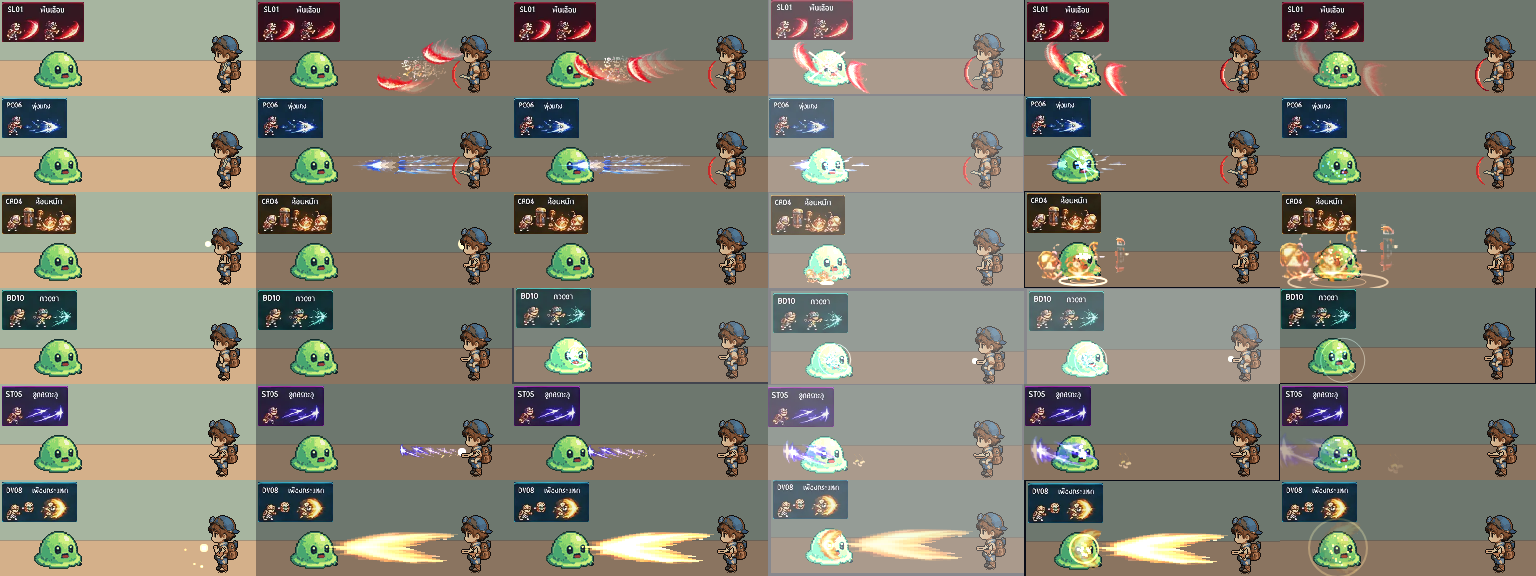
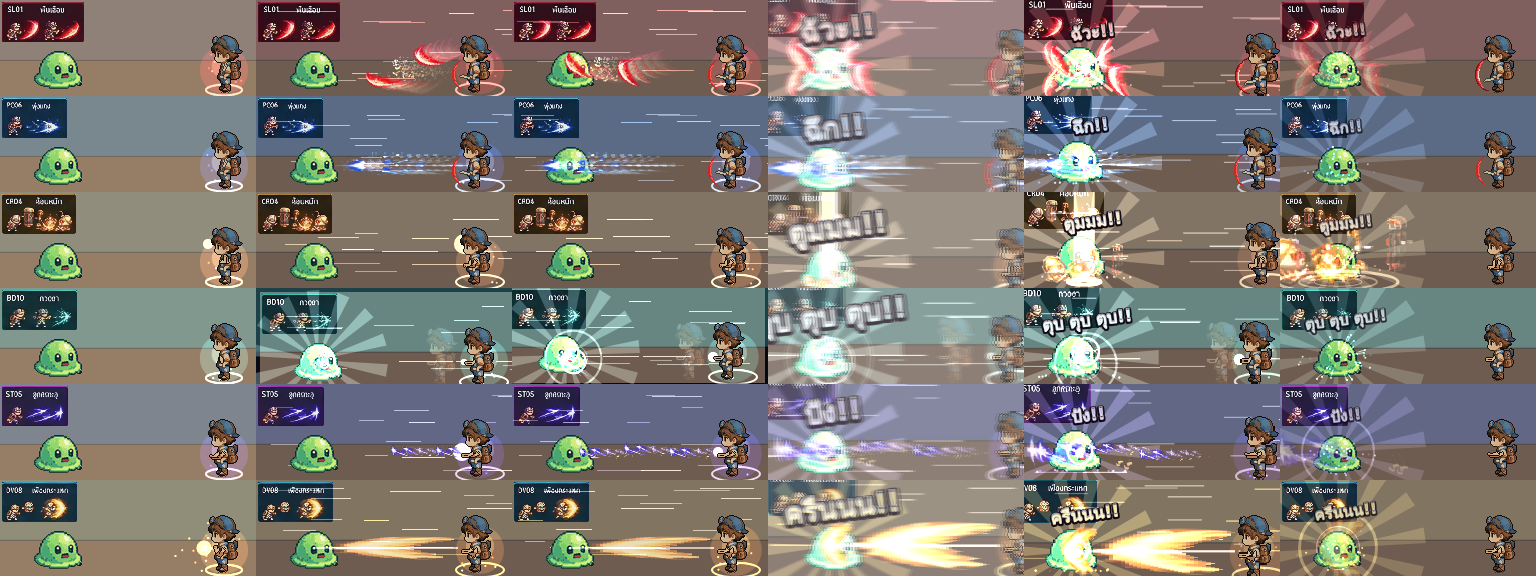
REBORNER: bigger sheet-skill VFX (hit-stop, zoom, rays, SFX text) + synthesized sound
36-frame timeline with charge aura, speed lines, 2-frame hit-stop, impact zoom,
rotating rays, offset ghosting, floating embers and onomatopoeia per school.
Web Audio sound effects synthesized in-page (no audio files), toggled by a button.

Claude-Session: https://claude.ai/code/session_01GQscemcyhAULQ41Vq3Zx3F

diff --git a/reborner/tools/web/anim_test.tpl.html b/reborner/tools/web/anim_test.tpl.html
@@ -177,6 +177,7 @@ footer code{font-family:ui-monospace,Menlo,monospace;font-size:11px}
 		<section class="box" id="paneSksheet" hidden>
 			<p class="muted wnote">ตัดจากชีตสกิลของ kwan ทีละช่อง (มีจริง 172 ช่อง แม้หัวชีตเขียน 173) · ตัวเอกในชีตถูกลบออก ใช้ Rion ตัวจริงของเกมแทน · หันซ้ายแบบจอสู้ ·
 				ยืน → ง้าง → ปล่อย → กระทบ → คืนท่า · มุมซ้ายบน = ช่องต้นฉบับ · ร่าง ยังไม่เข้าเกม · ชื่อท่ายังไม่ได้ใส่ (ในชีตเป็นภาพตัวหนังสือ)</p>
+			<p><button class="btn" id="btnSound" aria-pressed="false">🔇 เสียงปิด — กดเพื่อเปิดเสียงประกอบ (ตัวอย่าง VFX)</button></p>
 			<div class="clips" id="skGroups"></div>
 		</section>
 
@@ -334,9 +335,10 @@ if (DATA.sprites['smp/slime_v3']) {
 }
 
 // อาวุธจากชีต "Weapon Collection 210" ของ kwan (ตัดทีละช่องด้วย tools/sprites/weapons_sheet_cut.py) — เล่นคู่ ขนาดชีต | 32px
-const VFX = { N: 24, SEC: 0.05, REL: 6, HIT: 10,
-	POSE: [0, 0, 1, 1, 1, 1, 2, 2, 2, 2, 3, 3, 3, 3, 3, 3, 4, 4, 4, 4, 4, 4, 0, 0],
-	SHAKE: { SL: 2, PC: 2, CR: 5, BD: 3, ST: 2, DV: 4 }, GRAV: { CR: 0.45 }, TARGET: { x: 58, foot: 90, key: 'mon/M01' } };
+const VFX = { N: 36, SEC: 0.045, CHG: 1, REL: 8, HIT: 14, STOP: 2,   // ชาร์จ 1–7 · ปล่อย 8–13 · กระทบ 14 (หยุดภาพ 2 เฟรม) · ผลหลังกระทบ ถึง ~29 · คืนท่า
+	POSE: [0, 0, 1, 1, 1, 1, 1, 1, 2, 2, 2, 2, 2, 2, 3, 3, 3, 3, 3, 3, 3, 3, 3, 3, 4, 4, 4, 4, 4, 4, 4, 4, 0, 0, 0, 0],
+	SHAKE: { SL: 3, PC: 3, CR: 7, BD: 4, ST: 3, DV: 6 }, GRAV: { CR: 0.45 }, TARGET: { x: 58, foot: 90, key: 'mon/M01' },
+	TEXT: { SL: 'ฉัวะ!!', PC: 'ฉึก!!', CR: 'ตูมมม!!', BD: 'ตุบ ตุบ ตุบ!!', ST: 'ปัง!!', DV: 'ครืนนน!!' } };   // ตัวหนังสือเสียงชุดเดียวกับไม้ตาย (ultimates.json sfx_text)
 const VFX_POSE_KEYS = it => VFX.POSE.map(p => 'rion/' + SKS.poses[it.family][p]);
 // สกิลจากชีต 173 ท่า (tools/sprites/skill_sheet_cut.py) — timeline/poses/ตำแหน่งมาจาก index.json ชุดเดียวกับสคริปต์
 const SKS = DATA.skill_sheet, SK_FAM = { SL: 'SL ฟัน', PC: 'PC แทง', CR: 'CR ทุบ', BD: 'BD ร่างกาย', ST: 'ST ยิง', DV: 'DV สายกล' };
@@ -350,91 +352,169 @@ for (const code of ((SKS || {}).vfx_samples || [])) {   // ตัวอย่า
 	addClip('ตัวอย่าง VFX · สายละ 1 ท่า (รอ kwan ดูก่อนทาทั้ง 172)', 'vfx_' + code, code + ' · VFX', VFX_POSE_KEYS(it), VFX.SEC, { tab: 'sksheet', skill: it, vfx: true });
 }
 { const i = GROUPS.findIndex(g => g.name.startsWith('ตัวอย่าง VFX')); if (i > 0) GROUPS.unshift(...GROUPS.splice(i, 1)); }
-// ── VFX ซ้อนบนภาพชีต (kwan เลือก 5 ต.ค. · ตัวอย่างสายละ 1 ท่า = SKS.vfx_samples) ──
-// เฟรมละ VFX.SEC · ง้าง 0–5 · ปล่อย 6–9 · กระทบ VFX.HIT · ค้าง/จาง ถึง 21 · ทุกอย่างคิดจากเลขเฟรม (สุ่มแบบมี seed ตามรหัสท่า) → กดทีละเฟรมได้ ภาพเดิมทุกครั้ง
-// ค่าทั้งหมดเป็นค่าภาพในหน้าเทส ไม่ใช่ค่าเกม
+// ── VFX ซ้อนบนภาพชีต (kwan เลือก 5 ต.ค. · "อลังการกว่านี้พร้อมเสียง" · ตัวอย่างสายละ 1 ท่า = SKS.vfx_samples) ──
+// ทุกอย่างคิดจากเลขเฟรม (สุ่มแบบมี seed ตามรหัสท่า) → กดทีละเฟรมได้ ภาพเดิมทุกครั้ง · ค่าทั้งหมดเป็นค่าภาพ/เสียงในหน้าเทส ไม่ใช่ค่าเกม
 const vHash = str => { let h = 2166136261; for (const ch of str) h = Math.imul(h ^ ch.charCodeAt(0), 16777619); return h >>> 0; };
 const vRng = seed => { let s = (seed >>> 0) || 1; return () => (s = (Math.imul(s, 1664525) + 1013904223) >>> 0) / 4294967296; };
 const lerp = (a, b, t) => a + (b - a) * Math.max(0, Math.min(1, t));
+const vTime = f => f < VFX.HIT ? f : f < VFX.HIT + VFX.STOP ? VFX.HIT : f - VFX.STOP;   // หยุดภาพตอนกระทบ: เวลาของการเคลื่อนไหวค้างไว้ STOP เฟรม
 function vfxImg(img, x, y, sx, sy, a, alpha, add) {   // วางภาพเอฟเฟกต์กลาง (x, y) · add = บวกแสง
 	if (!img || alpha <= 0) return;
 	ctx.save(); if (add) ctx.globalCompositeOperation = 'lighter'; ctx.globalAlpha = Math.min(1, alpha);
 	ctx.translate(Math.round(x), Math.round(y)); ctx.rotate(a); ctx.scale(sx, sy); ctx.drawImage(img, -img.width / 2, -img.height / 2); ctx.restore();
 }
 function vfxDot(x, y, r, col, alpha) { ctx.save(); ctx.globalCompositeOperation = 'lighter'; ctx.globalAlpha = Math.max(0, Math.min(1, alpha)); ctx.fillStyle = col; ctx.beginPath(); ctx.arc(x, y, Math.max(0.5, r), 0, 7); ctx.fill(); ctx.restore(); }
-function vfxRing(x, y, rx, ry, col, alpha, w) { ctx.save(); ctx.globalCompositeOperation = 'lighter'; ctx.globalAlpha = Math.max(0, alpha); ctx.strokeStyle = col; ctx.lineWidth = w; ctx.beginPath(); ctx.ellipse(x, y, rx, Math.max(1, ry), 0, 0, 7); ctx.stroke(); ctx.restore(); }
-function vfxBurst(code, t0, f, x, y, n, col, opt = {}) {   // อนุภาคกระจายจาก (x, y) เมื่อเฟรม t0 · คิดตำแหน่งจากเวลา ไม่สะสม
-	const dt = f - t0; if (dt < 0 || dt > (opt.life || 9)) return;
-	const r = vRng(vHash(code) + t0 * 977), g = opt.grav ?? 0.18, life = opt.life || 9;
+function vfxRing(x, y, rx, ry, col, alpha, w) { if (alpha <= 0) return; ctx.save(); ctx.globalCompositeOperation = 'lighter'; ctx.globalAlpha = Math.min(1, alpha); ctx.strokeStyle = col; ctx.lineWidth = w; ctx.beginPath(); ctx.ellipse(x, y, rx, Math.max(1, ry), 0, 0, 7); ctx.stroke(); ctx.restore(); }
+function vfxRays(x, y, n, len, rot, col, alpha) {   // รัศมีแสงหมุนหลังเป้า
+	if (alpha <= 0) return; ctx.save(); ctx.globalCompositeOperation = 'lighter'; ctx.globalAlpha = Math.min(1, alpha); ctx.fillStyle = col;
+	for (let i = 0; i < n; i++) { const a = rot + i * 2 * Math.PI / n, w = 0.09; ctx.beginPath(); ctx.moveTo(x, y);
+		ctx.lineTo(x + Math.cos(a - w) * len, y + Math.sin(a - w) * len); ctx.lineTo(x + Math.cos(a + w) * len, y + Math.sin(a + w) * len); ctx.fill(); }
+	ctx.restore();
+}
+function vfxBurst(code, t0, f, x, y, n, col, opt = {}) {   // อนุภาคกระจายจาก (x, y) เมื่อเวลา t0 · คิดตำแหน่งจากเวลา ไม่สะสม
+	const life = opt.life || 9, dt = f - t0; if (dt < 0 || dt > life) return;
+	const r = vRng(vHash(code) + t0 * 977 + (opt.salt || 0)), g = opt.grav ?? 0.18;
 	for (let i = 0; i < n; i++) {
 		const a = (opt.dir ?? 0) + (r() * 2 - 1) * (opt.spread ?? Math.PI), v = (opt.speed || 3) * (0.4 + r() * 0.8), c = col[i % col.length];
-		const px = x + Math.cos(a) * v * dt, py = y + Math.sin(a) * v * dt + 0.5 * g * dt * dt;
-		const sz = (opt.size || 2) * (1 - dt / (life + 1)) + 0.5;
+		const px = x + Math.cos(a) * v * dt, py = y + Math.sin(a) * v * dt + 0.5 * g * dt * dt, sz = (opt.size || 2) * (1 - dt / (life + 1)) + 0.5;
 		ctx.save(); ctx.globalCompositeOperation = 'lighter'; ctx.globalAlpha = 1 - dt / (life + 1); ctx.fillStyle = c;
+		if (opt.streak) { ctx.strokeStyle = c; ctx.lineWidth = 1; ctx.beginPath(); ctx.moveTo(px, py); ctx.lineTo(px - Math.cos(a) * v * 1.5, py - Math.sin(a) * v * 1.5); ctx.stroke(); }
 		ctx.fillRect(Math.round(px - sz / 2), Math.round(py - sz / 2), Math.ceil(sz), Math.ceil(sz)); ctx.restore();
 	}
 }
+function vfxText(txt, x, y, f0, f, col) {   // ตัวหนังสือเสียงเด้งขึ้นแล้วจาง
+	const d = f - f0; if (d < 0 || d > 11) return;
+	const sc = d < 2 ? 1.6 - d * 0.3 : 1, a = d < 8 ? 1 : 1 - (d - 7) / 4;
+	ctx.save(); ctx.globalAlpha = a; ctx.translate(x, y - d * 0.6); ctx.rotate(-0.12); ctx.scale(sc, sc);
+	ctx.font = '900 15px system-ui, "Noto Sans Thai", sans-serif'; ctx.textAlign = 'center'; ctx.textBaseline = 'middle';
+	ctx.lineJoin = 'round'; ctx.lineWidth = 4; ctx.strokeStyle = '#120a14'; ctx.strokeText(txt, 0, 0); ctx.fillStyle = col; ctx.fillText(txt, 0, 0);
+	ctx.lineWidth = 1; ctx.strokeStyle = '#ffffff'; ctx.globalAlpha = a * 0.6; ctx.strokeText(txt, 0, -1); ctx.restore();
+}
+const VFX_OC = document.createElement('canvas');
 function vfxView(c) {
-	const it = c.skill, f = S.frame, fam = it.family, [W0, H0] = SKS.stage, fx = IMG['skf/' + it.code], col = it.colors || ['#ffffff'];
-	const Hx = SKS.hand[0], Hy = SKS.hand[1], T = { x: VFX.TARGET.x, y: VFX.TARGET.foot - 22 }, HIT = VFX.HIT, rel = (f - VFX.REL) / (HIT - VFX.REL);
-	const hits = fam === 'BD' ? [8, 10, 12] : [HIT];
-	const since = Math.min(...hits.map(h => f >= h ? f - h : 99));
+	const it = c.skill, f = S.frame, t = vTime(f), fam = it.family, [W0, H0] = SKS.stage, fx = IMG['skf/' + it.code], col = it.colors || ['#ffffff'];
+	const Hx = SKS.hand[0], Hy = SKS.hand[1], T = { x: VFX.TARGET.x, y: VFX.TARGET.foot - 22 }, HIT = VFX.HIT, REL = VFX.REL, rel = (t - REL) / (HIT - REL);
+	const hits = fam === 'BD' ? [HIT - 4, HIT - 2, HIT] : [HIT];
+	const since = Math.min(...hits.map(h => t >= h ? t - h : 99)), fsince = f >= HIT ? f - HIT : 99;   // fsince = เวลาจริง (นับรวมหยุดภาพ)
+	const fw = fx ? fx.width : 40, k80 = Math.min(1, 80 / fw);
 	cv.width = W0; cv.height = H0; ctx.imageSmoothingEnabled = false;
-	const sh = since < 4 ? VFX.SHAKE[fam] * (1 - since / 4) : 0, rs = vRng(vHash(it.code) + f * 31);
-	ctx.save(); ctx.translate(Math.round((rs() * 2 - 1) * sh), Math.round((rs() * 2 - 1) * sh));
+	ctx.save();
+	// กล้อง: ซูมเข้าเป้าตอนกระทบ + จอสั่น
+	const zoom = fsince < 8 ? 1 + 0.16 * (1 - fsince / 8) : 1, sh = since < 5 ? VFX.SHAKE[fam] * (1 - since / 5) : 0, rs = vRng(vHash(it.code) + f * 31);
+	ctx.translate(T.x, T.y); ctx.scale(zoom, zoom); ctx.translate(-T.x + Math.round((rs() * 2 - 1) * sh), -T.y + Math.round((rs() * 2 - 1) * sh));
 	drawBg();
-	const dim = f < VFX.REL - 3 ? 0 : f < VFX.REL ? 0.12 * (f - VFX.REL + 3) : f < HIT + 6 ? 0.36 : f < HIT + 10 ? 0.36 * (1 - (f - HIT - 6) / 4) : 0;
-	if (dim) { ctx.fillStyle = `rgba(8,10,22,${dim})`; ctx.fillRect(-8, -8, W0 + 16, H0 + 16); }
+	// ฟ้าเปลี่ยนสีตามแสงของท่า + มืดลง
+	const dim = t < 3 ? 0 : t < REL ? 0.1 * (t - 2) : t < HIT + 12 ? 0.5 : t < HIT + 16 ? 0.5 * (1 - (t - HIT - 12) / 4) : 0;
+	if (dim) { ctx.fillStyle = `rgba(6,8,20,${dim})`; ctx.fillRect(-40, -40, W0 + 80, H0 + 80);
+		ctx.save(); ctx.globalCompositeOperation = 'lighter'; ctx.globalAlpha = dim * 0.35; ctx.fillStyle = col[col.length - 1]; ctx.fillRect(-40, -40, W0 + 80, H0 * 0.62 + 40); ctx.restore(); }
 	const cell = IMG['skc/' + it.code];
 	if (cell) { const k = 40 / cell.height; ctx.globalAlpha = 0.9; ctx.drawImage(cell, 2, 2, Math.round(cell.width * k), 40); ctx.globalAlpha = 1; }
-	// เป้า: กระเด็นถอย + วาบขาวตอนโดน
+	// รัศมีแสงหมุนหลังเป้า (หลังกระทบ)
+	if (since < 14) vfxRays(T.x, T.y, 14, 70 + since * 3, t * 0.06, col[0], 0.22 * (1 - since / 14));
+	// เส้นความเร็วตอนปล่อย
+	if (t >= REL && t < HIT + 2) { const r = vRng(vHash(it.code) + 11); ctx.save(); ctx.globalCompositeOperation = 'lighter';
+		for (let i = 0; i < 14; i++) { const y = 8 + r() * (H0 - 16), L = 18 + r() * 40, x = ((r() * W0 - (t - REL) * 34) % W0 + W0) % W0;
+			ctx.globalAlpha = 0.25 + r() * 0.3; ctx.fillStyle = i % 3 ? '#ffffff' : col[0]; ctx.fillRect(Math.round(x), Math.round(y), Math.round(L), 1); } ctx.restore(); }
+	// เป้า: กระเด็นถอย + วาบขาว
 	const tg = IMG[VFX.TARGET.key];
 	if (tg) {
-		const kb = since < 6 ? -[0, 4, 6, 5, 3, 1][since] : 0, tx = T.x - (tg.width >> 1) + kb, ty = VFX.TARGET.foot - tg.height;
+		const kb = since < 7 ? -[0, 5, 8, 7, 5, 3, 1][since] : 0, tx = T.x - (tg.width >> 1) + kb, ty = VFX.TARGET.foot - tg.height - (since < 4 ? [0, 3, 2, 1][since] : 0);
 		ctx.drawImage(tg, tx, ty);
-		if (since < 2) { ctx.save(); ctx.globalCompositeOperation = 'lighter'; ctx.globalAlpha = since ? 0.4 : 0.85; ctx.drawImage(tg, tx, ty); ctx.restore(); }
+		if (since < 3) { ctx.save(); ctx.globalCompositeOperation = 'lighter'; ctx.globalAlpha = [1, 0.6, 0.3][since]; ctx.drawImage(tg, tx, ty); ctx.restore(); }
 	}
-	const fw = fx ? fx.width : 40, k80 = Math.min(1, 80 / fw);   // เอฟเฟกต์ที่วิ่งไปเป้า (ฟัน/แทง) ย่อให้กว้างไม่เกิน 80px ไม่ล้นจอ
-	if (fam === 'SL') {   // เสี้ยวฟันกวาดหมุนจากมือไปเป้า ทิ้งรอย
-		if (f >= VFX.REL && f < HIT) {
-			for (let k = 3; k >= 0; k--) { const p = rel - k * 0.09; if (p < 0) continue;
-				vfxImg(fx, lerp(Hx - 24, T.x + 14, p), lerp(Hy - 4, T.y, p), k80, k80, lerp(-0.8, 0.35, p), k ? 0.28 / k : 1, k > 0); }
-		}
-		if (f >= HIT && f < HIT + 7) { const q = (f - HIT) / 6; const sc = k80 * (1 + q * 0.3); vfxImg(fx, T.x + 6, T.y, sc, sc, 0.35, 1 - q, false); vfxImg(fx, T.x + 6, T.y, sc * 1.1, sc * 1.1, 0.35, (1 - q) * 0.6, true); }
-		if (since < 3) for (const s of [-1, 1]) { ctx.save(); ctx.globalCompositeOperation = 'lighter'; ctx.globalAlpha = 1 - since / 3; ctx.strokeStyle = col[0]; ctx.lineWidth = 2; ctx.beginPath(); ctx.moveTo(T.x - 18, T.y - 14 * s); ctx.lineTo(T.x + 18, T.y + 14 * s); ctx.stroke(); ctx.restore(); }
-	} else if (fam === 'PC') {   // พุ่งเป็นลำยืด + เส้นเข็มแตกรอบเป้า
-		if (f >= VFX.REL && f < HIT) for (let k = 4; k >= 0; k--) { const p = rel - k * 0.07; if (p < 0) continue;
-			vfxImg(fx, lerp(Hx - fw * k80 * 0.5, T.x + 10, p), lerp(Hy - 2, T.y, p), k80 * (k ? 1.4 : 1), 0.6, 0, k ? 0.22 : 1, k > 0); }
-		if (f >= HIT && f < HIT + 5) { const q = (f - HIT) / 4; vfxImg(fx, T.x + 4, T.y, k80, 0.6, 0, (1 - q) * 0.9, true);
-			const r = vRng(vHash(it.code) + 5); for (let i = 0; i < 10; i++) { const a = r() * 6.28, L = 6 + q * 22; ctx.save(); ctx.globalCompositeOperation = 'lighter'; ctx.globalAlpha = 1 - q; ctx.strokeStyle = col[i % col.length]; ctx.lineWidth = 1; ctx.beginPath(); ctx.moveTo(T.x + Math.cos(a) * L * 0.4, T.y + Math.sin(a) * L * 0.4); ctx.lineTo(T.x + Math.cos(a) * L, T.y + Math.sin(a) * L); ctx.stroke(); ctx.restore(); } }
-	} else if (fam === 'ST') {   // แสงปากกระบอก → กระสุนเล็กวิ่ง → ระเบิดเต็มขนาดที่เป้า
-		if (f === VFX.REL || f === VFX.REL + 1) vfxDot(Hx - 4, Hy - 2, f === VFX.REL ? 7 : 4, col[0], 0.9);
-		if (f >= VFX.REL && f < HIT) for (let k = 3; k >= 0; k--) { const p = rel - k * 0.08; if (p < 0) continue;
-			vfxImg(fx, lerp(Hx - 10, T.x + 6, p), lerp(Hy - 3, T.y, p), 0.38 - k * 0.06, 0.38 - k * 0.06, 0, k ? 0.35 : 1, k > 0); }
-		if (f >= HIT && f < HIT + 7) { const q = (f - HIT) / 6; vfxImg(fx, T.x, T.y, 0.6 + q * 0.5, 0.6 + q * 0.5, 0, 1 - q * 0.9, false); vfxImg(fx, T.x, T.y, 0.7 + q * 0.5, 0.7 + q * 0.5, 0, (1 - q) * 0.5, true); }
-	} else if (fam === 'CR') {   // ง้างมีแสงที่มือ → ระเบิดโผล่จากพื้นใต้เป้า + คลื่นพื้น + เศษกระเด็นตกตามแรงโน้มถ่วง
-		if (f >= 2 && f < VFX.REL + 2) vfxDot(Hx - 2, Hy - 18, 2 + (f - 2) * 0.8, col[1] || col[0], 0.7);
-		if (f >= HIT && f < HIT + 9) { const q = (f - HIT) / 8, s = q < 0.4 ? lerp(0.4, 1.1, q / 0.4) : 1.1, img = fx;
-			if (img) vfxImg(img, T.x, VFX.TARGET.foot - img.height * s / 2, s, s, 0, q < 0.6 ? 1 : 1 - (q - 0.6) / 0.4, false);
-			vfxRing(T.x, VFX.TARGET.foot, 6 + q * 70, (6 + q * 70) * 0.18, col[0], 1 - q, 2); vfxRing(T.x, VFX.TARGET.foot, 3 + q * 40, (3 + q * 40) * 0.18, col[1] || col[0], (1 - q) * 0.7, 1); }
-	} else if (fam === 'BD') {   // รัวหมัด 3 ครั้งที่เป้า แต่ละครั้งมีวงประกาย
-		for (const h of hits) { const d = f - h; if (d < 0 || d > 3) continue; const r = vRng(vHash(it.code) + h);
-			const ox = (r() * 2 - 1) * 8, oy = (r() * 2 - 1) * 6; vfxImg(fx, T.x + ox, T.y + oy, 0.55 + d * 0.08, 0.55 + d * 0.08, (r() - 0.5) * 0.6, 1 - d / 4, d > 0);
-			vfxRing(T.x + ox, T.y + oy, 4 + d * 6, 4 + d * 6, col[0], 1 - d / 4, 1); }
-		if (f >= 6 && f < 13 && (f % 2 === 0)) vfxDot(Hx - 6, Hy, 3, col[0], 0.7);   // แสงที่หมัด
-	} else if (fam === 'DV') {   // ชาร์จลูกพลังที่มือ (อนุภาคดูดเข้า) → ลำแสงยืดจากมือถึงเป้า กะพริบ → ระเบิด
-		if (f >= 1 && f < VFX.REL + 1) { const q = (f - 1) / VFX.REL; vfxDot(Hx - 6, Hy - 2, 2 + q * 6, col[0], 0.5 + q * 0.4); vfxDot(Hx - 6, Hy - 2, 1 + q * 3, '#ffffff', 0.8);
-			const r = vRng(vHash(it.code) + 3); for (let i = 0; i < 8; i++) { const a = r() * 6.28, L = 22 * (1 - q) + 4; vfxDot(Hx - 6 + Math.cos(a) * L, Hy - 2 + Math.sin(a) * L, 1, col[i % col.length], 0.9); } }
-		if (f >= VFX.REL + 1 && f < HIT + 3 && fx) { const len = (Hx - 8) - T.x, flick = 0.75 + 0.25 * Math.sin(f * 2.3);
-			ctx.save(); ctx.globalCompositeOperation = 'lighter'; ctx.globalAlpha = flick; ctx.drawImage(fx, T.x, Hy - fx.height * 0.35 - 2, len, fx.height * 0.7); ctx.restore(); }
-		if (f >= HIT && f < HIT + 7) { const q = (f - HIT) / 6; vfxImg(fx, T.x, T.y, 0.7 + q * 0.6, 0.7 + q * 0.6, 0, 1 - q, false); vfxRing(T.x, T.y, 4 + q * 30, 4 + q * 30, col[0], 1 - q, 2); }
+	// ออร่ารอบ Rion ตอนชาร์จ + ประกายลอยขึ้น
+	const rx = SKS.rion_at[0] + 32, ry = SKS.rion_at[1] + 40;
+	if (t >= VFX.CHG && t < HIT + 4) { const q = Math.min(1, (t - VFX.CHG) / (REL - VFX.CHG)), fade = t < HIT ? 1 : 1 - (t - HIT) / 4;
+		vfxRing(rx, ry + 20, 10 + q * 14, (10 + q * 14) * 0.3, col[0], 0.7 * fade, 2);
+		vfxDot(rx, ry, 18 + q * 8 + Math.sin(t * 1.7) * 2, col[col.length - 1], 0.18 * fade); vfxDot(rx, ry - 4, 10 + q * 4, col[0], 0.18 * fade);
+		const r = vRng(vHash(it.code) + 7); for (let i = 0; i < 12; i++) { const ph = (t * 0.09 + r()) % 1; vfxDot(rx - 18 + r() * 36, ry + 22 - ph * 50, 1, col[i % col.length], (1 - ph) * fade); } }
+	if (fam === 'SL') {   // เสี้ยวหมุนกวาดไปเป้า ทิ้งรอย → เสี้ยวไขว้ 2 สาย + กากบาทแสง
+		if (t >= REL && t < HIT) for (let k = 4; k >= 0; k--) { const p = rel - k * 0.08; if (p < 0) continue;
+			vfxImg(fx, lerp(Hx - 24, T.x + 14, p), lerp(Hy - 4, T.y, p), k80, k80, lerp(-0.8, 0.35, p), k ? 0.3 / k : 1, k > 0); }
+		if (t >= HIT && t < HIT + 9) { const q = (t - HIT) / 8, sc = k80 * (1 + q * 0.35);
+			vfxImg(fx, T.x + 6, T.y, sc, sc, 0.35, 1 - q, false); vfxImg(fx, T.x + 6, T.y, sc * 1.15, sc * 1.15, 0.35, (1 - q) * 0.7, true);
+			vfxImg(fx, T.x - 2, T.y, sc, -sc, -0.5, (1 - q) * 0.85, true); }
+		if (since < 4) for (const sg of [-1, 1]) { ctx.save(); ctx.globalCompositeOperation = 'lighter'; ctx.globalAlpha = 1 - since / 4; ctx.strokeStyle = since ? col[0] : '#ffffff'; ctx.lineWidth = 3 - since * 0.5;
+			ctx.beginPath(); ctx.moveTo(T.x - 26, T.y - 20 * sg); ctx.lineTo(T.x + 26, T.y + 20 * sg); ctx.stroke(); ctx.restore(); }
+	} else if (fam === 'PC') {   // ลำพุ่งยืด → ทะลุเป้าเลยไปทางซ้าย + เส้นเข็มแตกรอบเป้า
+		if (t >= REL && t < HIT + 3) for (let k = 5; k >= 0; k--) { const p = (t - REL) / (HIT - REL) - k * 0.07; if (p < 0) continue;
+			vfxImg(fx, lerp(Hx - fw * k80 * 0.5, T.x - 30, p * 0.85), lerp(Hy - 2, T.y, p), k80 * (k ? 1.5 : 1.1), 0.65, 0, k ? 0.22 : 1, k > 0); }
+		if (t >= HIT && t < HIT + 7) { const q = (t - HIT) / 6; vfxImg(fx, T.x + 4, T.y, k80 * 1.2, 0.8, 0, (1 - q) * 0.9, true);
+			const r = vRng(vHash(it.code) + 5); for (let i = 0; i < 16; i++) { const a = r() * 6.28, L = 8 + q * 34; ctx.save(); ctx.globalCompositeOperation = 'lighter'; ctx.globalAlpha = 1 - q; ctx.strokeStyle = col[i % col.length]; ctx.lineWidth = i % 4 ? 1 : 2; ctx.beginPath(); ctx.moveTo(T.x + Math.cos(a) * L * 0.35, T.y + Math.sin(a) * L * 0.35); ctx.lineTo(T.x + Math.cos(a) * L, T.y + Math.sin(a) * L); ctx.stroke(); ctx.restore(); } }
+	} else if (fam === 'ST') {   // แสงปากกระบอก 3 นัด → กระสุนเล็กวิ่ง → ระเบิดเต็มขนาดที่เป้า
+		for (const m of [REL, REL + 2, REL + 4]) if (t === m || t === m + 1) vfxDot(Hx - 4, Hy - 2, t === m ? 9 : 5, col[0], 0.95);
+		for (const [m, dy] of [[REL, 0], [REL + 2, -5], [REL + 4, 5]]) { const p = (t - m) / (HIT - REL); if (p < 0 || p > 1) continue;
+			for (let k = 3; k >= 0; k--) { const pp = p - k * 0.08; if (pp < 0) continue; vfxImg(fx, lerp(Hx - 10, T.x + 6, pp), lerp(Hy - 3, T.y + dy, pp), 0.34 - k * 0.05, 0.34 - k * 0.05, 0, k ? 0.35 : 1, k > 0); } }
+		if (t >= HIT && t < HIT + 9) { const q = (t - HIT) / 8; vfxImg(fx, T.x, T.y, 0.6 + q * 0.6, 0.6 + q * 0.6, 0, 1 - q * 0.9, false); vfxImg(fx, T.x, T.y, 0.75 + q * 0.6, 0.75 + q * 0.6, 0, (1 - q) * 0.55, true);
+			vfxRing(T.x, T.y, 6 + q * 40, 6 + q * 40, col[0], 1 - q, 2); }
+	} else if (fam === 'CR') {   // ลูกไฟที่มือตอนง้าง → ระเบิดโผล่จากพื้น + เสาแสง + คลื่นพื้น 3 วง + หินกระเด็น
+		if (t >= 2 && t < REL + 3) vfxDot(Hx - 2, Hy - 18, 2 + (t - 2) * 1.0, col[1] || col[0], 0.8);
+		if (t >= HIT && t < HIT + 5) { const q = (t - HIT) / 4; ctx.save(); ctx.globalCompositeOperation = 'lighter'; ctx.globalAlpha = 1 - q; ctx.fillStyle = col[0]; ctx.fillRect(T.x - 8 - q * 6, -10, 16 + q * 12, VFX.TARGET.foot + 10); ctx.restore(); }
+		if (t >= HIT && t < HIT + 11) { const q = (t - HIT) / 10, s = q < 0.35 ? lerp(0.4, 1.25, q / 0.35) : 1.25;
+			if (fx) vfxImg(fx, T.x, VFX.TARGET.foot - fx.height * s / 2, s, s, 0, q < 0.6 ? 1 : 1 - (q - 0.6) / 0.4, false);
+			if (fx) vfxImg(fx, T.x, VFX.TARGET.foot - fx.height * s / 2, s * 1.1, s * 1.1, 0, (1 - q) * 0.5, true);
+			for (const [k, w] of [[1, 3], [0.65, 2], [0.4, 1]]) vfxRing(T.x, VFX.TARGET.foot, (6 + q * 90) * k, (6 + q * 90) * k * 0.18, col[0], (1 - q) * (k === 1 ? 1 : 0.7), w); }
+		vfxBurst(it.code, HIT, t, T.x, VFX.TARGET.foot - 4, 14, ['#6b5444', '#8d735d', '#4a3b30'], { grav: 0.5, speed: 3.6, dir: -Math.PI / 2, spread: 1.0, life: 12, size: 3, salt: 3 });
+	} else if (fam === 'BD') {   // รัวหมัด 3 ครั้ง แต่ละครั้งวงประกาย + ร่างแยกหมัดเรือง
+		for (const h of hits) { const d = t - h; if (d < 0 || d > 4) continue; const r = vRng(vHash(it.code) + h);
+			const ox = (r() * 2 - 1) * 9, oy = (r() * 2 - 1) * 7; vfxImg(fx, T.x + ox, T.y + oy, 0.6 + d * 0.1, 0.6 + d * 0.1, (r() - 0.5) * 0.6, 1 - d / 5, d > 0);
+			vfxRing(T.x + ox, T.y + oy, 4 + d * 8, 4 + d * 8, col[0], 1 - d / 5, 2); vfxRing(T.x + ox, T.y + oy, 2 + d * 4, 2 + d * 4, '#ffffff', 1 - d / 4, 1); }
+		if (t >= REL - 2 && t < HIT + 2) { vfxDot(Hx - 6, Hy, 3 + (t % 2) * 2, col[0], 0.85);
+			const ghost = IMG['rion/' + SKS.poses.BD[2]]; if (ghost) { ctx.save(); ctx.globalCompositeOperation = 'lighter'; ctx.globalAlpha = 0.28; ctx.drawImage(ghost, SKS.rion_at[0] - 30 - (t % 3) * 8, SKS.rion_at[1]); ctx.restore(); } }
+		if (since < 10) vfxBurst(it.code, HIT, t, T.x, T.y, 26, col, { speed: 4.2, life: 10, streak: true, salt: 9 });
+	} else if (fam === 'DV') {   // ชาร์จลูกพลังดูดอนุภาค → ลำแสงยืดจากมือถึงเป้า กะพริบ + แกนขาว → ระเบิด + วง
+		if (t >= 1 && t < REL + 1) { const q = (t - 1) / REL; vfxDot(Hx - 6, Hy - 2, 3 + q * 9, col[0], 0.5 + q * 0.4); vfxDot(Hx - 6, Hy - 2, 1 + q * 4, '#ffffff', 0.85);
+			const r = vRng(vHash(it.code) + 3); for (let i = 0; i < 14; i++) { const a = r() * 6.28, L = 30 * (1 - ((q + r()) % 1)) + 4; vfxDot(Hx - 6 + Math.cos(a) * L, Hy - 2 + Math.sin(a) * L, 1, col[i % col.length], 0.9); } }
+		if (t >= REL + 1 && t < HIT + 5 && fx) { const len = (Hx - 8) - T.x, flick = 0.75 + 0.25 * Math.sin(t * 2.3), hgt = fx.height * (t < HIT ? 0.5 : 0.9);
+			ctx.save(); ctx.globalCompositeOperation = 'lighter'; ctx.globalAlpha = flick; ctx.drawImage(fx, T.x, Hy - hgt / 2 - 2, len, hgt);
+			ctx.fillStyle = '#ffffff'; ctx.globalAlpha = flick * 0.8; ctx.fillRect(T.x, Hy - 3, len, 2); ctx.restore(); }
+		if (t >= HIT && t < HIT + 9) { const q = (t - HIT) / 8; vfxImg(fx, T.x, T.y, 0.8 + q * 0.7, 0.8 + q * 0.7, 0, 1 - q, false); vfxImg(fx, T.x, T.y, 0.9 + q * 0.7, 0.9 + q * 0.7, 0, (1 - q) * 0.5, true);
+			vfxRing(T.x, T.y, 4 + q * 46, 4 + q * 46, col[0], 1 - q, 3); vfxRing(T.x, T.y, 2 + q * 26, 2 + q * 26, '#ffffff', 1 - q, 1); }
 	}
-	for (const h of hits) vfxBurst(it.code, h, f, T.x, T.y, fam === 'BD' ? 8 : 18, col,
-		{ grav: VFX.GRAV[fam] ?? 0.18, speed: fam === 'CR' ? 3.2 : 2.6, dir: fam === 'CR' ? -Math.PI / 2 : Math.PI, spread: fam === 'CR' ? 1.1 : Math.PI, life: fam === 'BD' ? 5 : 9 });
+	for (const h of hits) vfxBurst(it.code, h, t, T.x, T.y, fam === 'BD' ? 10 : 24, col,
+		{ grav: VFX.GRAV[fam] ?? 0.18, speed: fam === 'CR' ? 3.4 : 3, dir: fam === 'CR' ? -Math.PI / 2 : Math.PI, spread: fam === 'CR' ? 1.1 : Math.PI, life: fam === 'BD' ? 6 : 11 });
+	// ถ่านไฟลอยค้างหลังกระทบ
+	if (t > HIT && t < HIT + 18) { const r = vRng(vHash(it.code) + 21); for (let i = 0; i < 16; i++) { const ph = (t - HIT) / 18, sx0 = T.x - 40 + r() * 80, sp = 0.6 + r();
+		vfxDot(sx0 + Math.sin((t + i) * 0.5) * 3, T.y + 20 - ph * 40 * sp, 1, col[i % col.length], (1 - ph) * (0.5 + 0.5 * Math.sin(t * 1.3 + i))); } }
 	spr('rion/' + SKS.poses[fam][VFX.POSE[f]], SKS.rion_at[0], SKS.rion_at[1]);
-	if (since < 2) { ctx.fillStyle = `rgba(255,255,255,${since ? 0.1 : 0.28})`; ctx.fillRect(-8, -8, W0 + 16, H0 + 16); }
+	vfxText(VFX.TEXT[fam], T.x + 8, T.y - 30, HIT, f, col[0]);
 	ctx.restore();
+	// หลังวาดฉาก: ภาพแยกสี RGB ตอนกระทบ + จอวาบ
+	if (fsince < 3) { VFX_OC.width = W0; VFX_OC.height = H0; VFX_OC.getContext('2d').drawImage(cv, 0, 0);
+		ctx.save(); ctx.globalAlpha = fsince ? 0.16 : 0.28;   // เงาซ้อนเหลื่อมซ้าย-ขวา (บวกแสงทั้งจอบนพื้นสว่างจะขาวโพลน)
+		ctx.drawImage(VFX_OC, -3 + fsince, 0); ctx.drawImage(VFX_OC, 3 - fsince, 0); ctx.restore(); }
+	if (fsince < 3) { ctx.fillStyle = `rgba(255,255,255,${[0.22, 0.1, 0.04][fsince]})`; ctx.fillRect(0, 0, W0, H0); }
 	if (S.grid) drawGrid();
+}
+
+// ── เสียงประกอบ (Web Audio สังเคราะห์ในหน้า · ไม่มีไฟล์เสียง) ── เปิดด้วยปุ่ม "เสียง" (เบราว์เซอร์ให้เล่นได้หลังกดเท่านั้น)
+let AU = null;
+function auInit() { if (!AU) { try { const C = window.AudioContext || window.webkitAudioContext; const ac = new C(); const out = ac.createGain(); out.gain.value = 0.5; out.connect(ac.destination);
+	const nb = ac.createBuffer(1, ac.sampleRate, ac.sampleRate), d = nb.getChannelData(0); let s = 12345; for (let i = 0; i < d.length; i++) { s = (Math.imul(s, 1664525) + 1013904223) >>> 0; d[i] = s / 2147483648 - 1; }
+	AU = { ac, out, nb }; } catch (e) { AU = null; } } if (AU && AU.ac.state === 'suspended') AU.ac.resume(); return AU; }
+function auEnv(g, t0, a, peak, dur) { g.gain.setValueAtTime(0.0001, t0); g.gain.exponentialRampToValueAtTime(peak, t0 + a); g.gain.exponentialRampToValueAtTime(0.0001, t0 + dur); }
+function auNoise(dur, type, f0, f1, peak, q = 1, delay = 0) { const { ac, out, nb } = AU, t0 = ac.currentTime + delay, src = ac.createBufferSource(), fl = ac.createBiquadFilter(), g = ac.createGain();
+	src.buffer = nb; fl.type = type; fl.Q.value = q; fl.frequency.setValueAtTime(f0, t0); fl.frequency.exponentialRampToValueAtTime(Math.max(20, f1), t0 + dur);
+	auEnv(g, t0, 0.01, peak, dur); src.connect(fl); fl.connect(g); g.connect(out); src.start(t0); src.stop(t0 + dur + 0.05); }
+function auTone(dur, wave, f0, f1, peak, delay = 0, attack = 0.005) { const { ac, out } = AU, t0 = ac.currentTime + delay, o = ac.createOscillator(), g = ac.createGain();
+	o.type = wave; o.frequency.setValueAtTime(f0, t0); o.frequency.exponentialRampToValueAtTime(Math.max(20, f1), t0 + dur); auEnv(g, t0, attack, peak, dur); o.connect(g); g.connect(out); o.start(t0); o.stop(t0 + dur + 0.05); }
+const AU_SFX = {
+	charge: fam => { auTone(0.34, 'sine', 180, fam === 'DV' ? 900 : 520, 0.12, 0, 0.2); auTone(0.34, 'triangle', 360, fam === 'DV' ? 1800 : 1040, 0.05, 0, 0.2); },
+	release: { SL: () => auNoise(0.22, 'bandpass', 600, 4200, 0.5, 2.5), PC: () => { auNoise(0.12, 'highpass', 2500, 6000, 0.35); auTone(0.14, 'sawtooth', 1600, 400, 0.12); },
+		ST: () => [0, 0.09, 0.18].forEach(d => { auTone(0.1, 'square', 1100, 180, 0.14, d); auNoise(0.06, 'highpass', 3000, 3000, 0.25, 1, d); }),
+		CR: () => auNoise(0.3, 'bandpass', 300, 1400, 0.45, 1.5), BD: () => auNoise(0.14, 'bandpass', 900, 3000, 0.35, 2), DV: () => { auTone(0.4, 'sawtooth', 110, 150, 0.16); auTone(0.4, 'square', 220, 300, 0.06); auNoise(0.4, 'bandpass', 1800, 2400, 0.12, 3); } },
+	hit: (fam, big) => { auTone(big ? 0.7 : 0.4, 'sine', big ? 120 : 160, 38, big ? 0.9 : 0.6); auNoise(big ? 0.6 : 0.3, 'lowpass', 2400, 120, big ? 0.8 : 0.55);
+		auNoise(0.08, 'highpass', 4000, 4000, 0.4); if (fam === 'SL' || fam === 'PC') auTone(0.5, 'triangle', 2600, 1800, 0.07, 0.03); },
+	punch: () => { auTone(0.16, 'sine', 140, 50, 0.7); auNoise(0.09, 'bandpass', 1400, 400, 0.5, 1.2); },
+	tail: fam => { if (fam === 'CR' || fam === 'DV') auNoise(1.0, 'lowpass', 500, 60, 0.35); else [0, 0.06, 0.13, 0.21].forEach((d, i) => auTone(0.25, 'triangle', 1800 + i * 420, 2600 + i * 300, 0.05, d)); },
+};
+function vfxSound(c, f) {   // เรียกเมื่อเฟรมเดินเอง (ไม่เล่นตอนกดทีละเฟรม)
+	if (!S.sound || !AU) return; const fam = c.skill.family, t = vTime(f);
+	if (f === VFX.CHG) AU_SFX.charge(fam);
+	if (f === VFX.REL) AU_SFX.release[fam]();
+	if (fam === 'BD' && (f === VFX.HIT - 4 || f === VFX.HIT - 2)) AU_SFX.punch();
+	if (f === VFX.HIT) AU_SFX.hit(fam, fam === 'CR' || fam === 'DV');
+	if (f === VFX.HIT + VFX.STOP + 2) AU_SFX.tail(fam);
 }
 function sheetSkillView(c) {
 	if (c.vfx) return vfxView(c);
@@ -1302,7 +1382,7 @@ function tick(now) {
 			S.acc += dt;
 			while (S.acc >= c.sec) { S.acc -= c.sec;
 				if (c.hold && S.frame === c.frames.length - 1) { S.acc = 0; break; }
-				S.frame = (S.frame + 1) % c.frames.length; syncFrame(); }
+				S.frame = (S.frame + 1) % c.frames.length; syncFrame(); if (c.vfx) vfxSound(c, S.frame); }
 		}
 		clipView();
 	} else {
@@ -1586,6 +1666,8 @@ function boot() {
 	$('ultK').textContent = K.ULT_PROF;
 	$('segStyle').onclick = e => { const v = e.target.dataset.v; if (!v) return; S.style = v; S.cine = v === 'cine'; S.saga = v === 'saga'; setHome(); press($('segStyle'), v); try { localStorage.setItem('at_style', v); } catch (er) {} };
 	try { const v = localStorage.getItem('at_style'); if (v) { S.style = v; S.cine = v === 'cine'; S.saga = v === 'saga'; setHome(); press($('segStyle'), v); } } catch (er) {}
+	$('btnSound').onclick = () => { S.sound = !S.sound; if (S.sound) auInit(); const b = $('btnSound'); b.setAttribute('aria-pressed', String(S.sound));
+		b.textContent = S.sound ? (AU ? '🔊 เสียงเปิด — เล่นตอนท่าเดินเอง' : 'เบราว์เซอร์นี้เล่นเสียงไม่ได้') : '🔇 เสียงปิด — กดเพื่อเปิดเสียงประกอบ (ตัวอย่าง VFX)'; };
 	$('btnGlim').onclick = () => { S.glim = !S.glim; $('btnGlim').setAttribute('aria-pressed', String(S.glim)); };
 	$('btnPlay').onclick = () => { S.playing = !S.playing; updPlay(); };
 	const step = d => { if (!isClip()) return; S.playing = false; updPlay(); const n = CLIPS[S.clip].frames.length; S.frame = (S.frame + d + n) % n; syncFrame(); };

diff --git a/reborner/CLAUDE.md b/reborner/CLAUDE.md
@@ -357,6 +357,13 @@ Sim ปิดตัวเองเมื่อรัน headless · บรรท
   BD รัวหมัด 3 ครั้ง (เฟรม 8/10/12) วงประกายทุกครั้ง · DV ชาร์จลูกพลังดูดอนุภาค → ลำแสงยืดจากมือถึงเป้ากะพริบ → ระเบิด + วง
   สุ่มแบบมี seed ตามรหัสท่า คิดจากเลขเฟรม → กดทีละเฟรมได้ภาพเดิม · ค่าภาพในหน้าเทสเท่านั้น ไม่ใช่ค่าเกม · ภาพ `docs/art-bible/compendium/skill_vfx_samples.png` (6 ท่า × เฟรม 3/7/9/10/12/15)
   **ยังไม่ทาทั้ง 172 ท่า รอ kwan ดูตัวอย่าง** · ข้อจำกัด: SL01 ยังเห็นเศษตัวเอกในชีตตอนพุ่ง · ไม่มีตัวเลขดาเมจ (ชีตไม่มีค่าพลัง ไม่คิดเลขเอง)
+  **รอบ 2 (kwan "อลังการกว่านี้พร้อมเสียงประกอบ")**: 36 เฟรม × 45 ms (~1.6 วิ) · ชาร์จ 1–7 (ออร่า+วงพื้นรอบ Rion · ประกายลอยขึ้น) · ปล่อย 8–13 (เส้นความเร็ว) · กระทบ 14 **หยุดภาพ 2 เฟรม** (`vTime`)
+    กระทบ: ซูมเข้าเป้า 1.16 · จอสั่นแรงขึ้น (CR 7) · รัศมีแสงหมุน 14 แฉก · ภาพเหลื่อมแยก · จอวาบ · ตัวหนังสือเสียงชุดเดียวกับไม้ตาย (ฉัวะ!! ฉึก!! ตูมมม!! ตุบ ตุบ ตุบ!! ปัง!! ครืนนน!!) · ถ่านไฟลอยค้าง · ฟ้าย้อมสีแสงของท่า
+    เพิ่มตามสาย: SL เสี้ยวไขว้ 2 สาย · PC ทะลุเลยเป้า + เข็ม 16 เส้น · ST ยิง 3 นัด · CR เสาแสง + คลื่นพื้น 3 วง + หินกระเด็น · BD ร่างแยกหมัด + ประกายเส้น · DV ลำแสงมีแกนขาว + วงคู่
+    **เสียงประกอบ**: Web Audio สังเคราะห์ในหน้า (ไม่มีไฟล์เสียง) · ปุ่ม "เสียง" ในแท็บ (เบราว์เซอร์ให้เล่นหลังกดเท่านั้น) · เล่นเมื่อท่าเดินเอง ไม่เล่นตอนกดทีละเฟรม
+    ชาร์จ = เสียงไต่ขึ้น · ปล่อย: SL ลมฟัน · PC ซิ่ง · ST ปิ้ว 3 นัด · CR ลมหนัก · BD ลมหมัด · DV หึ่งลำแสง · กระทบ = ตูม (CR/DV ใหญ่) + แตก · BD ตุบทุกหมัด · หาง: ระฆังแสง / ครืนต่ำ
+    ตรวจ: นับเสียงย่อยที่เล่นจริงต่อรอบ SL 8 · PC 9 · CR 5 · BD 11 · ST 12 · DV 7 · ไม่มี error · แก้ระหว่างทำ: ภาพแยกสีแบบบวกแสงทั้งจอบนพื้นสว่างทำเฟรมกระทบขาวโพลน → เปลี่ยนเป็นเงาซ้อนจาง
+    **ยังเป็นตัวอย่าง 6 ท่า รอ kwan ก่อนทาทั้ง 172** · เสียงยังไม่ได้ฟังด้วยหูจริง (เครื่องคลาวด์ไม่มีลำโพง) — ตรวจได้แค่ว่าเล่นครบ ไม่ error
 ## งานถัดไปตามลำดับ
 1. ✅ รัน Sim headless → เทียบตารางเป้า (`docs/SIM_REPORT_2026-09-25.md`) · ✅ เพิ่มบอส B1 เข้า Sim แล้ว · ✅ ยอมรับเป้ามีดทำครัวใหม่ (GDD 11.29)
 2. ให้ Pongsaton กด F5 เล่นแผนที่เอง (ความรู้สึกต้องมาจากมือคน ไม่ใช่ตัวเลข)
